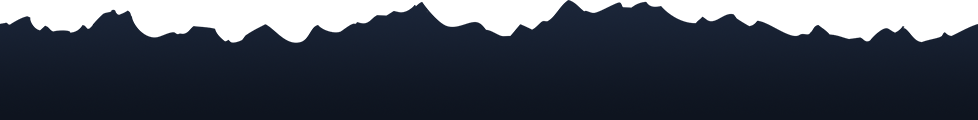
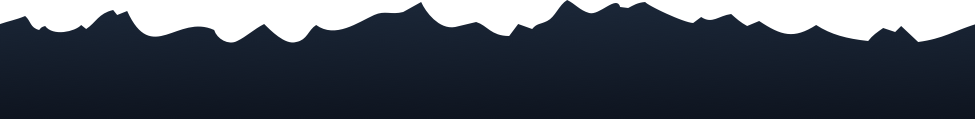
made site more retina friendly

diff --git a/app/styles/main.scss b/app/styles/main.scss
@@ -124,13 +124,14 @@ body, html {
         border-radius: ($profileWidth / 2);
         -webkit-border-radius: ($profileWidth / 2);
         -moz-border-radius: ($profileWidth / 2);
-        background: url(../images/profile.jpg) no-repeat;
-        background-size: cover;
         border:$profileBorderWidth solid white;
         box-sizing:border-box;
         -moz-box-sizing:border-box;
         -webkit-box-sizing:border-box;
-        background-color: #FFF;
+        background: url(../images/profile.jpg) no-repeat;
+        background-size: cover;
+        background-position: center;
+        background-color: RGBA(255,255,255,0.15);
     }
 }
 
@@ -162,12 +163,31 @@ footer {
     width: 100%;
 
     .range {
-        min-height: 120px;
+        min-height: 119px;
         background-image: url(../images/mountains.png);
     }
 
     .base {
         display: none;
+    }
+}
+
+@media only screen and (min--moz-device-pixel-ratio: 2),
+    only screen and (-o-min-device-pixel-ratio: 2/1),
+    only screen and (-webkit-min-device-pixel-ratio: 2),
+    only screen and (min-device-pixel-ratio: 2) {
+
+    .wrapper {
+        .avatar {
+                background-size: cover;
+                background: url(../images/profile@2x.jpg) no-repeat;
+            }
+        }
+    .mountains {
+        .range {
+            background-size: auto 119px;
+            background-image: url(../images/mountains@2x.png);
+        }
     }
 }
 
@@ -239,6 +259,8 @@ footer {
             border-radius: ($mobile-canvas-height/4);
             -webkit-border-radius: ($mobile-canvas-height/4);
             -moz-border-radius: ($mobile-canvas-height/4);
+            background-position: center;
+            background-size: cover;
         }
     }
 

diff --git a/app/index.html b/app/index.html
@@ -19,10 +19,7 @@
         <meta name="keywords" content="carlo, eugster, designer, coder, hacker, enterpreneur, film, game design">
         <meta name="viewport" content="width=device-width, initial-scale=1.0, maximum-scale=1.0, user-scalable=no">
         <link rel="shortcut icon" href="/favicon.ico">
-        <link rel="apple-touch-icon-precomposed" href="/apple-touch-icon.png">
-        <link rel="apple-touch-icon-precomposed" sizes="72x72" href="/apple-touch-icon-ipad.png">
-        <link rel="apple-touch-icon-precomposed" sizes="114x114" href="/apple-touch-icon-iphone4.png">
-        <link rel="apple-touch-icon-precomposed" sizes="144x144" href="/apple-touch-icon-iphone5.png">
+        <link rel="apple-touch-icon-precomposed" sizes="152x152" href="/apple-touch-icon-precomposed.png">
         <!-- build:css styles/vendor.css -->
         <!-- bower:css -->
         <link rel="stylesheet" href="bower_components/normalize.css/normalize.css">
